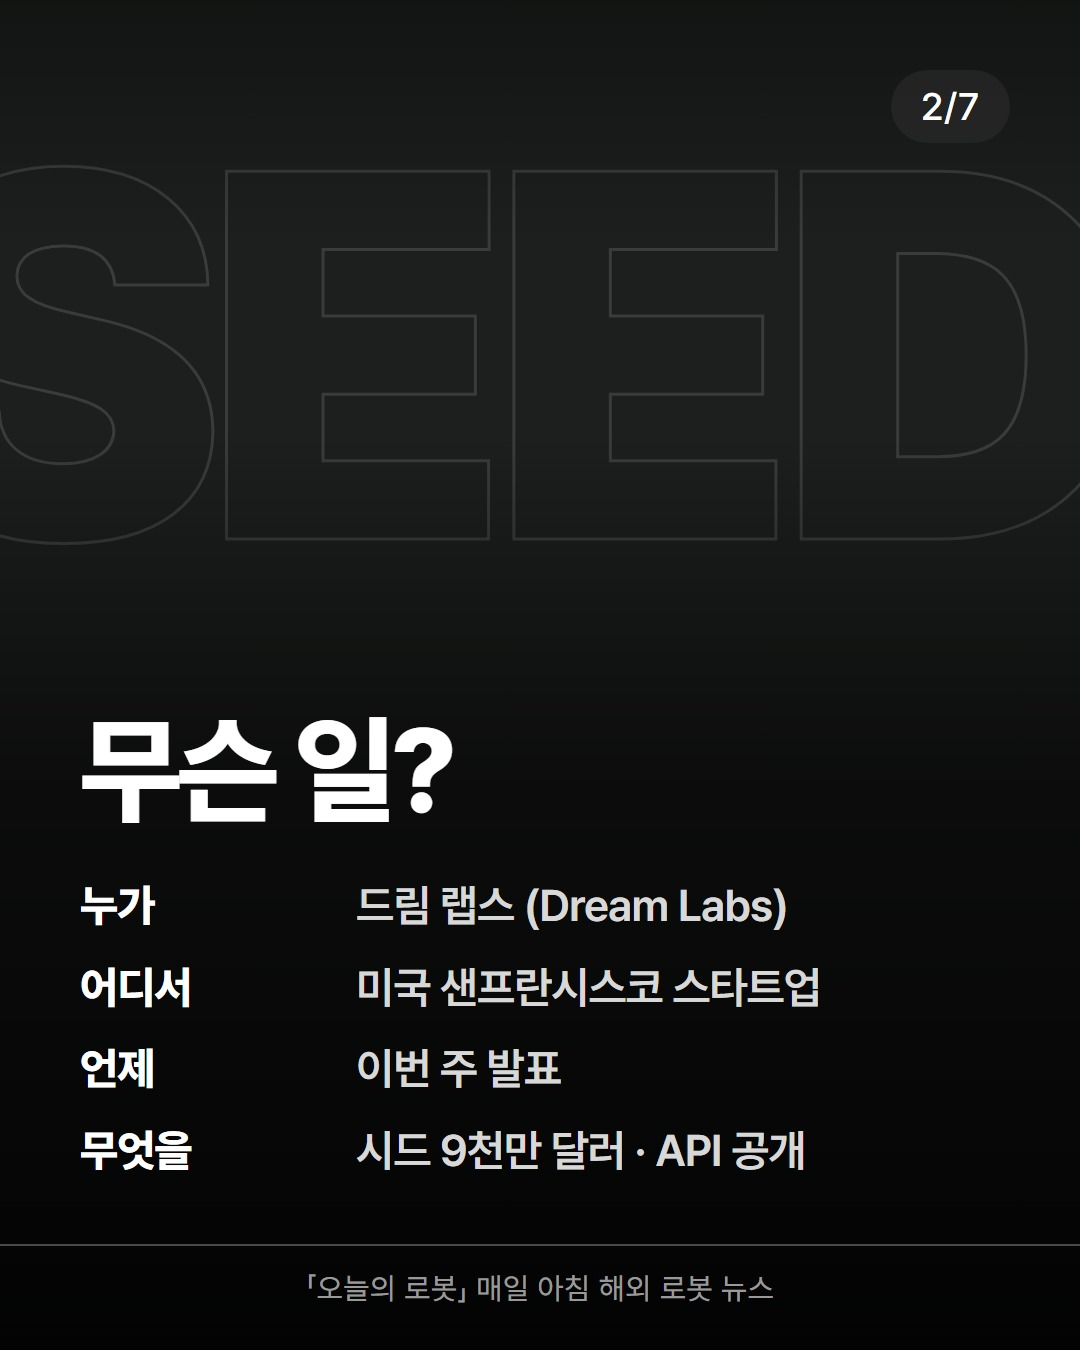
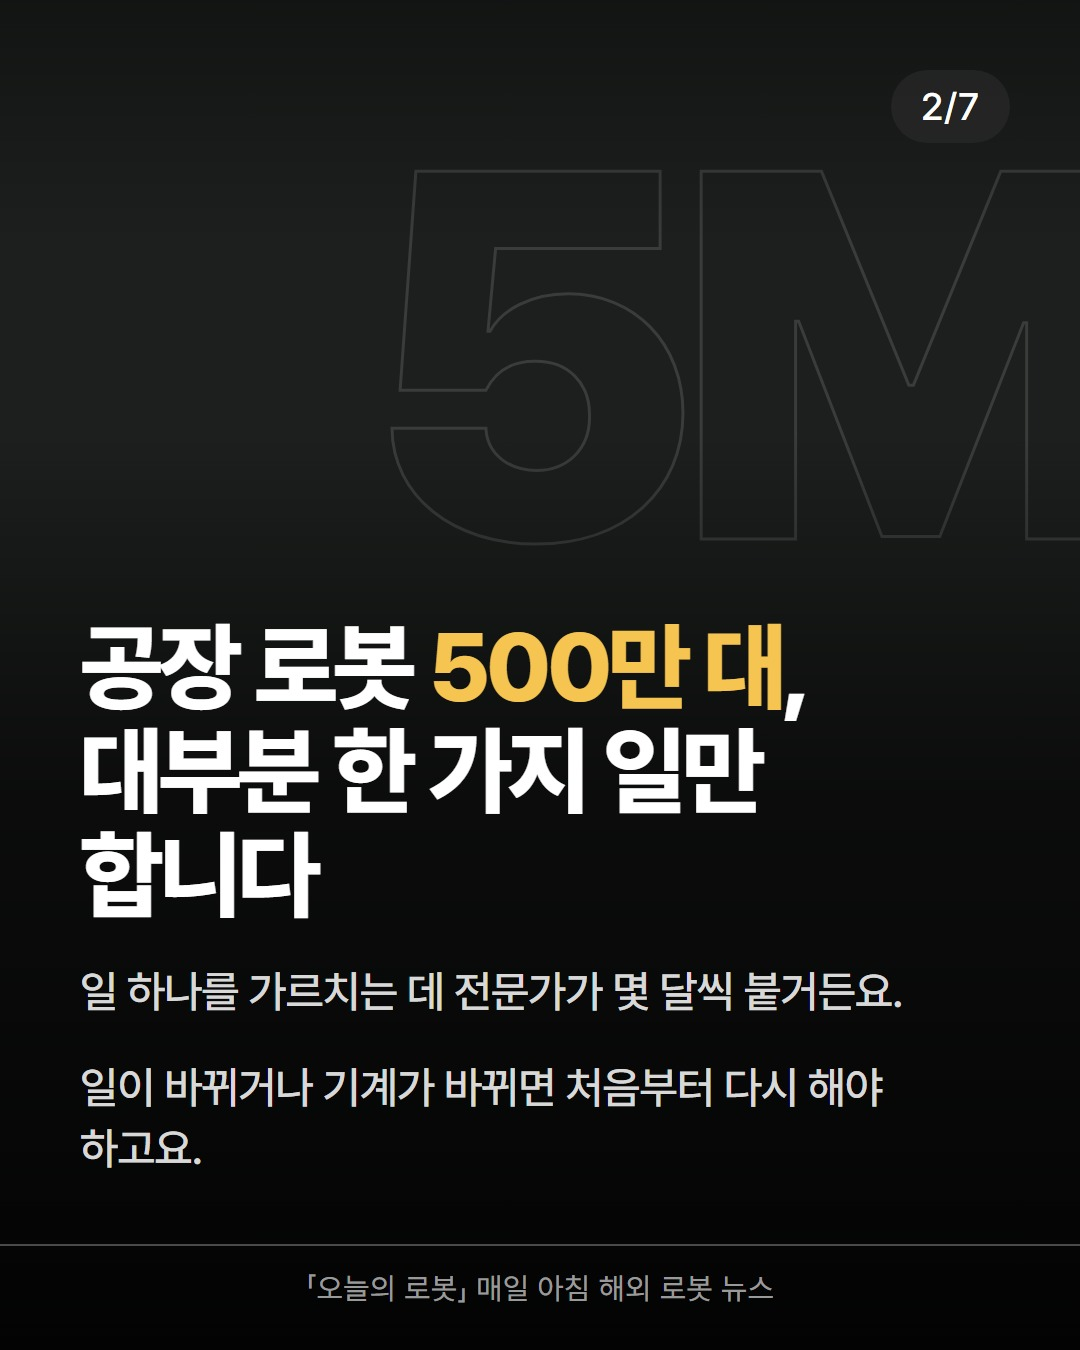
조쉬 뉴스레터 문법으로 문체 전환(STYLE.md), 'AI 요약' 문구 금지, No.2 재작성

diff --git a/check.py b/check.py
@@ -15,10 +15,10 @@ post.json 형식:
 import io, json, os, re, sys
 
 LIMITS = {"h1": 40, "sub": 90, "row": 40}
-BANNED = ["최초", "혁명", "충격", "역대급", "미쳤", "소름", "무조건", "100%"]
+BANNED = ["최초", "혁명", "충격", "역대급", "미쳤", "소름", "무조건", "100%", "AI 요약", "AI가 요약"]
 IMG = (1080, 1350)
 META = {"topic": ["휴머노이드", "모델·소프트웨어", "투자·상장", "공장·물류 도입", "기타"],
-        "hook": ["결론", "숫자", "질문"],
+        "hook": ["왜", "숫자 대비", "원인→결과", "유행어 해설", "인물+주장", "결론"],  # STYLE.md 제목 공식 A~E (결론은 No.1 이전 방식)
         "photo_cover": [True, False]}
 
 

diff --git a/STYLE.md b/STYLE.md
@@ -1,0 +1,55 @@
+# 글 쓰는 법 — 조쉬 뉴스레터(maily.so/josh) 문법을 캐러셀로 옮긴 것
+
+2026-10-23에 maily.so/josh 글 60개(2026-04-22 ~ 10-23, 구독 14.4K)를 조회수로 줄 세우고, 상위 글 3개의 본문 구조를 분석했다. **문장을 베끼지 않는다. 제목 공식·구조·말투만 가져온다.**
+
+## 1. 조회수가 말해 준 것
+
+| 순위 | 조회수 | 제목 유형 |
+|---|---|---|
+| 1 | 24K | 도구 비교 + 결론 증명 («Hermes 에이전트가 오픈클로보다 대세인 이유를 증명한 VC») |
+| 2 | 10.7K | 유행어 해설 («요즘 유행하는 '그래프 엔지니어링' 대체 뭔지 리뷰해 봤습니다») |
+| 3 | 10.1K | 유행어 활용법 («요즘 유행하는 LLM wiki 100% 활용하는 법») |
+| 3 | 10.1K | 원인 → 의외의 결과 («코딩이 100배 빨라지자, 나머지 전부가 병목이 되었다») |
+| 5~ | 8.4~8.8K | 경력 + 큰따옴표 주장 («팔란티어 13년차가 말하는 FDE "고통을 흡수해서…"»), 숫자 대비 («고객 한 명당 월 5,000달러를 받는 1인 사업가») |
+| 하위 | 5.0~5.5K | 일반론·막연한 주제 («앱 보안 전문가가 보는 AI 에이전트의 진짜 취약점») |
+
+- 최근 글은 조회수가 쌓일 시간이 짧아서 낮게 나온다. 같은 달끼리 비교해도 위 순서는 같다.
+- **결론:** 사람들은 «지금 다들 말하는 그것이 정확히 뭔지», «왜 의외의 선택을 했는지», «숫자가 얼마나 차이 나는지»를 클릭한다. 막연한 «~의 진짜 ○○»는 덜 읽힌다.
+
+## 2. 제목 공식 5개 (표지 카드 h1 + 캡션 첫 줄)
+
+| 공식 | 틀 | 로봇 뉴스 예 |
+|---|---|---|
+| A. 왜 | [경력·숫자로 꾸민 주체]는 왜 [의외의 선택]을 했을까 | 연 매출 1조 농기계 회사는 왜 트랙터 공장에 휴머노이드를 넣을까 |
+| B. 숫자 대비 | [숫자] → [반대 방향 숫자] | 직원 40명 스타트업, 시드 투자만 1,200억 원 |
+| C. 원인→결과 | [변화]하자, [의외의 결과]가 되었다 | 로봇이 싸지자, 이번엔 '두뇌'가 병목이 됐다 |
+| D. 유행어 해설 | 요즘 다들 말하는 '[키워드]', 대체 뭔지 정리했습니다 | 요즘 다들 말하는 '로봇 파운데이션 모델', 대체 뭔지 정리했습니다 |
+| E. 인물 + 주장 | [경력] [인물]이 말하는 [주제] "[원문 속 핵심 한 마디]" | — 원문에 실제 인용이 있을 때만 쓴다 |
+
+- 숫자·인용은 반드시 원문에 있는 것만 쓴다(check.py가 막는다). 큰따옴표 인용은 원문의 발언을 옮긴 것만 쓴다.
+- 경력은 이름보다 먼저 쓴다. «애질리티 Digit»이 아니라 «아마존 물류창고에서 일하는 휴머노이드 Digit».
+
+## 3. 카드 7장 구조 (조쉬 글 한 편을 7장으로 압축)
+
+| 카드 | 조쉬 글에서 하는 일 | 캐러셀에서 |
+|---|---|---|
+| 1 표지 | 제목 + 부제 | 공식 A~E 중 하나. 부제는 «누가 · 무엇을» 한 줄 |
+| 2 훅 | 숫자 대비, 뒤집기, 작은 장면 | 가장 센 숫자 하나를 먼저 던지고 뜻을 뒤에 붙인다. «○○가 아니라 ○○였습니다» 뒤집기 |
+| 3~6 본문 | 소제목 = 짧은 주장(부정형 자주) + 1~3문장, 단락마다 굵은 핵심 한 줄 | 카드 제목이 곧 소제목이다. 주장형으로 쓰고(«~가 아니었다», «~부터 바뀐다») 핵심 구절 하나만 `<em>` 처리한다 |
+| 7 마무리 | 요약하지 않는다. 독자의 자리를 바꿔 주는 한 줄(굵게) | «그래서 우리에게 무슨 뜻인가»를 한 줄로 쓴다. 원문 근거가 있는 범위에서만. 아래에 «출처 <매체>» |
+
+- 전문 용어는 처음 나올 때 괄호로 풀어 준다. 예: «토트(부품 상자)», «SPAC(기업인수목적회사)».
+- 회사·인물은 처음 나올 때만 영문을 같이 쓴다.
+
+## 4. 말투
+
+- 서술은 «~습니다» 60%, «~요/~예요» 25%, «~죠/~거든요» 15%. 세 문장에 한 번은 어미를 푼다.
+- 한 단락은 1~3문장이다. 한 줄짜리 결론 문장을 혼자 세운다.
+- 묻는 소제목을 쓸 수 있다(«왜 하필 트랙터 공장일까»). 물음표는 표지에서만 쓴다.
+- 이모지·느낌표는 쓰지 않는다. 과장어(최초·혁명·충격)도 쓰지 않는다.
+- «AI가 요약했다», «AI 요약» 같은 말은 본문과 캡션에 쓰지 않는다(2026-10-23 본인 지시).
+
+## 5. 캡션
+
+- **인스타:** 1행은 표지 제목 그대로. 빈 줄 다음에 2~3단락(단락당 1~3문장), 그 뒤 «원문: <URL>», 해시태그 5~8개. 첫 두 줄에서 다음 장을 넘기게 만든다.
+- **스레드(500자):** 1행은 제목. 이어서 숫자 대비 한 단락과 «왜 중요한가» 한 단락. 끝은 «원문 <매체>».

diff --git a/ROUTINE.md b/ROUTINE.md
@@ -26,23 +26,17 @@
    - `no`: 기존 `slides/*/post.json`의 가장 큰 `no` + 1
    - `meta`: `topic`·`hook`·`photo_cover`를 정직하게 단다(가능한 값은 `check.py`의 META). 피드백이 이 꼬리표로 묶여 계산된다.
      - `photo_cover`는 사진을 빼고 나면 실제 표지 상태에 맞게 고친다.
-   - 카드는 7장으로, 이 순서를 따른다.
-     ① 표지: 결론 한 문장, 핵심 단어 1~2개만 `<em>`
-     ② 무슨 일: `rows`에 누가·어디서·언제
-     ③ 배경: 회사·기술 소개
-     ④ 어떻게 동작하나 / 무엇을 하나
-     ⑤ 숫자 또는 맥락 하나
-     ⑥ 앞으로: 일정·다음 단계
-     ⑦ 마무리: 원문 속 인용이나 사실로 끝내고 «출처 <매체> · 링크는 캡션에»를 붙인다
+   - **제목·카드 구조·말투·캡션은 `STYLE.md`를 그대로 따른다.** 조쉬 뉴스레터에서 조회수가 높았던 문법을 옮긴 것이다. 쓰기 전에 매번 다시 읽는다.
+     - 표지 제목은 STYLE.md의 공식 A~E 중 원문에 가장 맞는 것 하나로 쓴다. `meta.hook`에 고른 공식 이름을 적는다.
+     - LESSONS.md의 «이번 주 실험»이 공식을 정해 주면 그것을 따른다.
+     - 7장 구조: 표지 → 훅 → 본문 4장(카드 제목이 주장형 소제목) → 마무리 한 줄. 마지막 장 아래에 «출처 <매체> · 링크는 캡션에»를 붙인다.
    - 제목은 3줄 이내, `<br>`로 줄을 나눈다. `sub` 한 줄은 90자 이내, `rows`는 3~5줄이다.
    - `glyph`: 사진이 없을 때 깔리는 외곽선 글자. 숫자·약어·영문 4~5자를 쓴다.
    - `photo_query`: Wikimedia Commons 영어 검색어. 표지와 3번 카드 정도에만 넣는다(회사명·로봇 모델명·제품군).
    - **숫자 규칙**: 카드와 캡션에 쓰는 숫자는 원문에 그대로 있어야 한다. 단위를 바꿨으면(예: $90M → 9천만 달러) `facts`에 `{"ko": "9천만 달러", "quote": "<원문 문장 일부 그대로>"}`를 넣는다.
    - 원문이 하지 않은 전망·평가·한국 관련 주장은 지어내지 않는다.
    - 과장어는 쓰지 않는다(«최초»·«혁명»·«충격» 등 `check.py` BANNED 목록).
-   - 문체는 «~합니다» 존댓말 해설체다. 번역투와 영어 남발을 피하고, 회사·제품명은 처음 나올 때만 영문을 병기한다.
-   - `caption_ig`: 요약 2~3문단 + `원문: <URL>` + «— AI가 해외 로봇 뉴스를 매일 아침 한국어로 요약합니다. 틀린 곳은 댓글로 알려 주세요.» + 해시태그 5~8개
-   - `caption_threads`: 500자 이내, 반말 요약체, 끝에 «원문 <매체> (AI 요약)»
+   - 캡션은 STYLE.md 5절을 따른다. «AI 요약»처럼 AI가 썼다는 말은 본문과 캡션에 넣지 않는다.
    - 원문 URL을 `data/used.txt`에 한 줄 덧붙인다.
 6. 아래 명령을 차례로 실행한다.
    - `python photos.py D`

diff --git a/LESSONS.md b/LESSONS.md
@@ -7,7 +7,7 @@
 
 ## 이번 주 실험
 - 변수 하나만 바꾼다. 나머지는 평소대로 쓴다.
-- 2026-10-26 ~ 11-01: 표지 `hook`을 홀수 날은 «숫자», 짝수 날은 «결론»으로 번갈아 쓴다. 숫자 표지는 원문의 가장 큰 숫자를 제목에 넣는 방식이다.
+- 2026-10-26 ~ 11-01: 표지 제목 공식을 홀수 날은 «왜»(A), 짝수 날은 «원인→결과»(C)로 번갈아 쓴다. 조쉬 뉴스레터에서는 C가 10.1K로 가장 높았다(STYLE.md). 원문이 그 공식에 맞지 않으면 다른 공식을 쓰고 meta.hook에 정직하게 적는다.
 
 ## 정정 기록
 - (없음)
